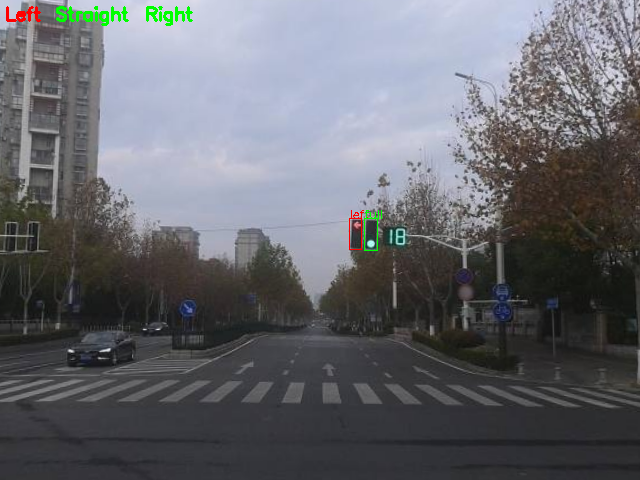
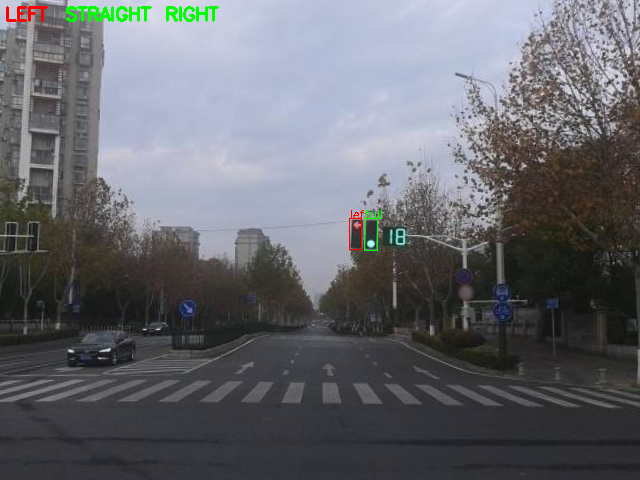
改用 ONNX Runtime 进行推理，同时添加对 GPU 和半精度推理的支持。

Changed region(s): [[0.0312, 0.0, 0.3438, 0.0625]]

diff --git a/utils.py b/utils.py
@@ -47,9 +47,9 @@ class PlottingUtils:
 
     @staticmethod
     def plot_passing_rules(image, rules):
-        image = PlottingUtils.plot_direct_rule(image, 'Left', 5, rules.left)
-        image = PlottingUtils.plot_direct_rule(image, 'Straight', 55, rules.straight)
-        image = PlottingUtils.plot_direct_rule(image, 'Right', 145, rules.right)
+        image = PlottingUtils.plot_direct_rule(image, 'LEFT', 5, rules.left)
+        image = PlottingUtils.plot_direct_rule(image, 'STRAIGHT', 65, rules.straight)
+        image = PlottingUtils.plot_direct_rule(image, 'RIGHT', 165, rules.right)
         return image
 
 
@@ -58,6 +58,7 @@ class ImageUtils:
     @staticmethod
     def letterbox(image, size, padding_color):
         current_size = max(image.shape[0], image.shape[1])
+
         x1 = (current_size - image.shape[1]) // 2
         y1 = (current_size - image.shape[0]) // 2
 
@@ -70,12 +71,19 @@ class ImageUtils:
         return cv2.resize(background, (size, size))
 
     @staticmethod
-    def blob(image, size):
-        return cv2.dnn.blobFromImage(image, scalefactor=(1 / 255), size=(size, size), swapRB=True)
+    def convert_inputs(image, precision):
+        inputs = cv2.cvtColor(image, cv2.COLOR_BGR2RGB).transpose((2, 0, 1))
+        inputs = inputs / 255.0
+        inputs = np.expand_dims(inputs, axis=0)
+
+        if precision == 'fp16':
+            return inputs.astype(np.float16)
+        else:
+            return inputs.astype(np.float32)
 
     @staticmethod
-    def preprocess(image, size, padding_color):
-        return ImageUtils.blob(ImageUtils.letterbox(image, size=size, padding_color=padding_color), size=size)
+    def preprocess(image, size, padding_color, precision):
+        return ImageUtils.convert_inputs(ImageUtils.letterbox(image, size=size, padding_color=padding_color), precision)
 
     @staticmethod
     def iter_images(source_path):
@@ -90,12 +98,12 @@ class ImageUtils:
 class ResultUtils:
 
     @staticmethod
-    def non_max_suppression(outputs, conf_threshold, nms_threshold):
+    def non_max_suppression(outputs, conf_threshold, iou_threshold):
         classes = list()
         boxes = list()
         scores = list()
 
-        for result in outputs:
+        for result in outputs.astype(np.float32):
             _, max_score, _, max_location = cv2.minMaxLoc(result[4:])
 
             if max_score > conf_threshold:
@@ -108,12 +116,13 @@ class ResultUtils:
                 scores.append(max_score)
                 classes.append(max_location[1])
 
-        result_index = cv2.dnn.NMSBoxes(boxes, scores, conf_threshold, nms_threshold, eta=0.5)
+        result_indices = cv2.dnn.NMSBoxes(boxes, scores, conf_threshold, iou_threshold, eta=0.5)
 
-        result_boxes = np.array(boxes, dtype=np.int32)[result_index]
-        result_classes = np.array(classes, dtype=np.int32)[result_index]
+        boxes = np.asarray(boxes, dtype=np.int32)
+        classes = np.asarray(classes, dtype=np.int32)
 
-        return result_boxes, result_classes
+        for index in result_indices:
+            yield boxes[index], classes[index]
 
 
 class TimingUtils:

diff --git a/detector/predict.py b/detector/predict.py
@@ -1,4 +1,4 @@
-import cv2
+import onnxruntime as ort
 
 from structs import TrafficSignal
 from utils import ImageUtils
@@ -7,10 +7,17 @@ from utils import ResultUtils
 
 class SignalDetector:
 
-    def __init__(self, conf_threshold=0.25, nms_threshold=0.45):
+    def __init__(self, device='CPU', precision='fp32', conf_threshold=0.25, iou_threshold=0.45):
+        self.precision = precision
         self.conf_threshold = conf_threshold
-        self.nms_threshold = nms_threshold
-        self.model = cv2.dnn.readNetFromONNX('./detector/weights/detect.onnx')
+        self.iou_threshold = iou_threshold
+
+        if device == 'GPU':
+            providers = ['CUDAExecutionProvider', 'CPUExecutionProvider']
+        else:
+            providers = ['CPUExecutionProvider']
+
+        self.session = ort.InferenceSession(f'./detector/weights/signal-detect-{precision}.onnx', providers=providers)
 
     def __call__(self, image):
         return self.detect(image)
@@ -26,17 +33,18 @@ class SignalDetector:
         return None
 
     def detect(self, image):
-        inputs = ImageUtils.preprocess(image, size=640, padding_color=127)
-        self.model.setInput(inputs)
+        inputs = ImageUtils.preprocess(image, size=640, padding_color=127, precision=self.precision)
 
-        outputs = self.model.forward()
-        outputs = outputs.squeeze()
-        outputs = cv2.transpose(outputs)
+        outputs = self.session.run(None, {
+            'images': inputs,
+        })
+        outputs = outputs[0].squeeze()
+        outputs = outputs.transpose()
 
-        boxes, classes = ResultUtils.non_max_suppression(outputs, self.conf_threshold, self.nms_threshold)
+        results = ResultUtils.non_max_suppression(outputs, self.conf_threshold, self.iou_threshold)
         detections = list()
 
-        for box, color_index in zip(boxes, classes):
-            detections.append(TrafficSignal(box[0], box[1] - 80, box[2], box[3], self.get_color(color_index)))
+        for (x, y, width, height), color_index in results:
+            detections.append(TrafficSignal(x, y - 80, width, height, self.get_color(color_index)))
 
         return detections

diff --git a/main.py b/main.py
@@ -25,8 +25,11 @@ def main():
     parser.add_argument('--source_path', type=str, default='./images')
     parser.add_argument('--result_path', type=str, default='./results')
 
+    parser.add_argument('--device', type=str, default='CPU', choices=['CPU', 'GPU'])
+    parser.add_argument('--precision', type=str, default='fp32', choices=['fp32', 'fp16'])
+
     parser.add_argument('--conf_threshold', type=float, default=0.25)
-    parser.add_argument('--nms_threshold', type=float, default=0.45)
+    parser.add_argument('--iou_threshold', type=float, default=0.45)
 
     parser.add_argument('--filter_weights', type=tuple, default=(0.05, 5, 2))
     parser.add_argument('--filter_threshold', type=float, default=40)
@@ -34,16 +37,18 @@ def main():
     parser.add_argument('--strategy', type=str, default='conservative', choices=['conservative', 'radical'])
     parser.add_argument('--plotting', type=bool, default=True)
 
-    arguments = parser.parse_args()
+    args = parser.parse_args()
     recognizer = RulesRecognizer(
-        conf_threshold=arguments.conf_threshold,
-        nms_threshold=arguments.nms_threshold,
-        filter_threshold=arguments.filter_threshold,
-        filter_weights=arguments.filter_weights,
-        strategy=arguments.strategy,
-        plotting=arguments.plotting,
+        conf_threshold=args.conf_threshold,
+        iou_threshold=args.iou_threshold,
+        device=args.device,
+        precision=args.precision,
+        filter_threshold=args.filter_threshold,
+        filter_weights=args.filter_weights,
+        strategy=args.strategy,
+        plotting=args.plotting,
     )
-    recognize_images(recognizer, arguments.source_path, arguments.result_path)
+    recognize_images(recognizer, args.source_path, args.result_path)
 
 
 if __name__ == '__main__':

diff --git a/classifier/predict.py b/classifier/predict.py
@@ -1,13 +1,19 @@
-import cv2
 import numpy as np
+import onnxruntime as ort
 
 from utils import ImageUtils
 
 
 class ShapeClassifier:
 
-    def __init__(self):
-        self.model = cv2.dnn.readNetFromONNX('./classifier/weights/classify.onnx')
+    def __init__(self, device='CPU', precision='fp32'):
+        if device == 'GPU':
+            providers = ['CUDAExecutionProvider', 'CPUExecutionProvider']
+        else:
+            providers = ['CPUExecutionProvider']
+
+        self.session = ort.InferenceSession(f'./classifier/weights/shape-classify-{precision}.onnx', providers=providers)
+        self.precision = precision
 
     def __call__(self, image, signals):
         return self.classify(image, signals)
@@ -31,13 +37,14 @@ class ShapeClassifier:
             x2 = signal.x2
             y2 = signal.y2
 
-            inputs = ImageUtils.preprocess(image[y1:y2, x1:x2], size=64, padding_color=0)
-            self.model.setInput(inputs)
+            inputs = ImageUtils.preprocess(image[y1:y2, x1:x2], size=64, padding_color=0, precision=self.precision)
 
-            outputs = self.model.forward()
-            outputs = outputs.squeeze()
+            outputs = self.session.run(None, {
+                'images': inputs,
+            })
+            outputs = outputs[0].squeeze()
+            outputs = np.argmax(outputs)
 
-            shape_index = np.argmax(outputs)
-            signal.shape = self.get_shape(shape_index)
+            signal.shape = self.get_shape(outputs)
 
         return signals

diff --git a/recognition.py b/recognition.py
@@ -14,13 +14,18 @@ class RulesRecognizer:
 
         self.detector = SignalDetector(
             conf_threshold=arguments['conf_threshold'],
-            nms_threshold=arguments['nms_threshold'],
+            iou_threshold=arguments['iou_threshold'],
+            device=arguments['device'],
+            precision=arguments['precision'],
         )
         self.filter = SignalFilter(
-            threshold=arguments['filter_threshold'],
             weights=arguments['filter_weights'],
+            threshold=arguments['filter_threshold'],
         )
-        self.classifier = ShapeClassifier()
+        self.classifier = ShapeClassifier(
+            device=arguments['device'],
+            precision=arguments['precision'],
+        )
         self.is_passable = self.get_passable_judge()
 
     def __call__(self, image):

diff --git a/README.md b/README.md
@@ -12,7 +12,7 @@
 
 2. **过滤筛选**，对检测出的交通信号灯采用改进的层次聚类算法进行聚类，以加权的欧氏距离和尺寸差值作为相似度度量，以一定的相似度阈值作为停止条件，从而筛选出最有可能表示当前通行规则的信号灯组。
 
-3. **信号分类**，对当前交通信号灯组中的所有信号灯，分别采用 YOLOv8 图像分类模型，将其表示的信号分为直行（Straight）、左转（Left）、右转（Right）和全部（Full）四类。
+3. **信号分类**，对当前交通信号灯组中的所有信号灯，分别采用 YOLOv8 图像分类模型，将其表示的信号分为直行（straight）、左转（left）、右转（right）和全部（full）四类。
 
 4. **规则解析**，对分类后的交通信号灯组，解析其表示的通行规则（即能否直行、能否左转和能否右转），有两种可选的解析策略：  
    
@@ -31,9 +31,9 @@
 
 #### 性能评估
 
-在 640x480 的图像输入下，采用 PyTorch 和 ONNX 平均推理一张图片的耗时约为 90ms，改用 OpenVino 推理平均耗时约为 54ms （CPU：11th Intel Core i5-1155G7 2.50GHz，Model：YOLOv8n）。
+在 640x480 的图像输入下，采用 PyTorch 平均推理一张图片的耗时约为 120ms，采用 ONNX Runtime 推理平均耗时约为 60ms，采用 OpenVino 推理平均耗时约为 54ms （CPU：11th Intel Core i5-1155G7 2.50GHz，Model：YOLOv8n）。
 
-在当前数据集下目标检测：
+在当前数据集下信号灯目标检测指标：
 
 | P     | R     | mAP50 | mAP50-95 |
 | ----- | ----- | ----- | -------- |
@@ -47,13 +47,19 @@
 
 #### 使用说明
 
-首先安装环境依赖包，项目采用 OpenCV DNN 模块部署，运行时仅需要依赖 OpenCV-Python 和 NumPy 软件包。
+首先安装环境依赖包，项目目前采用 ONNX Runtime 部署模型。
 
 ```bash
 pip install -r requirements.txt
 ```
 
-分别准备好用于存放待识别图像和输出结果两个空目录，将所有待识别的图像放入待识别图像目录下，要求图像尺寸为 640x480，运行 main.py 即可。
+运行以上命令将会安装 OpenCV-Python、NumPy 和 ONNX Runtime 的依赖，若需要使用 GPU 进行推理，则需要安装：
+
+```
+pip install onnxruntime-gpu
+```
+
+分别准备好用于存放待识别图像和输出结果两个空目录，将所有待识别的图像放入待识别图像目录下，也可使用默认的目录，要求图像尺寸为 640x480，运行 main.py 即可。
 
 ```bash
 python main.py
@@ -66,9 +72,11 @@ python main.py
 | --source_path      | 待识别图像路径                                         | str                   | './images'     |
 | --result_path      | 输出结果路径                                          | str                   | './results'    |
 | --conf_threshold   | 交通信号灯目标检测置信度阈值                                  | float                 | 0.25           |
-| --nms_threshold    | 交通信号灯目标检测非极大值抑制阈值                               | float                 | 0.45           |
+| --iou_threshold    | 交通信号灯目标检测非极大值抑制 IoU 阈值                          | float                 | 0.45           |
 | --filter_weights   | 过滤器聚类权重系数，为一个三元组，依次为 x 轴权重、y 轴权重和尺寸权重           | (float, float, float) | (0.05, 5, 2)   |
 | --filter_threshold | 过滤器聚类停止阈值                                       | float                 | 40             |
+| --device           | 推理设备，'CPU' 或 'GPU'                              | str                   | 'CPU'          |
+| --precision        | 推理运算精度，'fp32'（单精度）或 'fp16'（半精度）                 | str                   | 'fp32'         |
 | --strategy         | 通行规则识别策略，'conservative'（保守策略） 或 'radical'（激进策略） | str                   | 'conservative' |
 | --plotting         | 是否绘制识别结果到图像                                     | bool                  | True           |
 
@@ -77,5 +85,3 @@ python main.py
 ```bash
 pip install ultralytics
 ```
-
-
